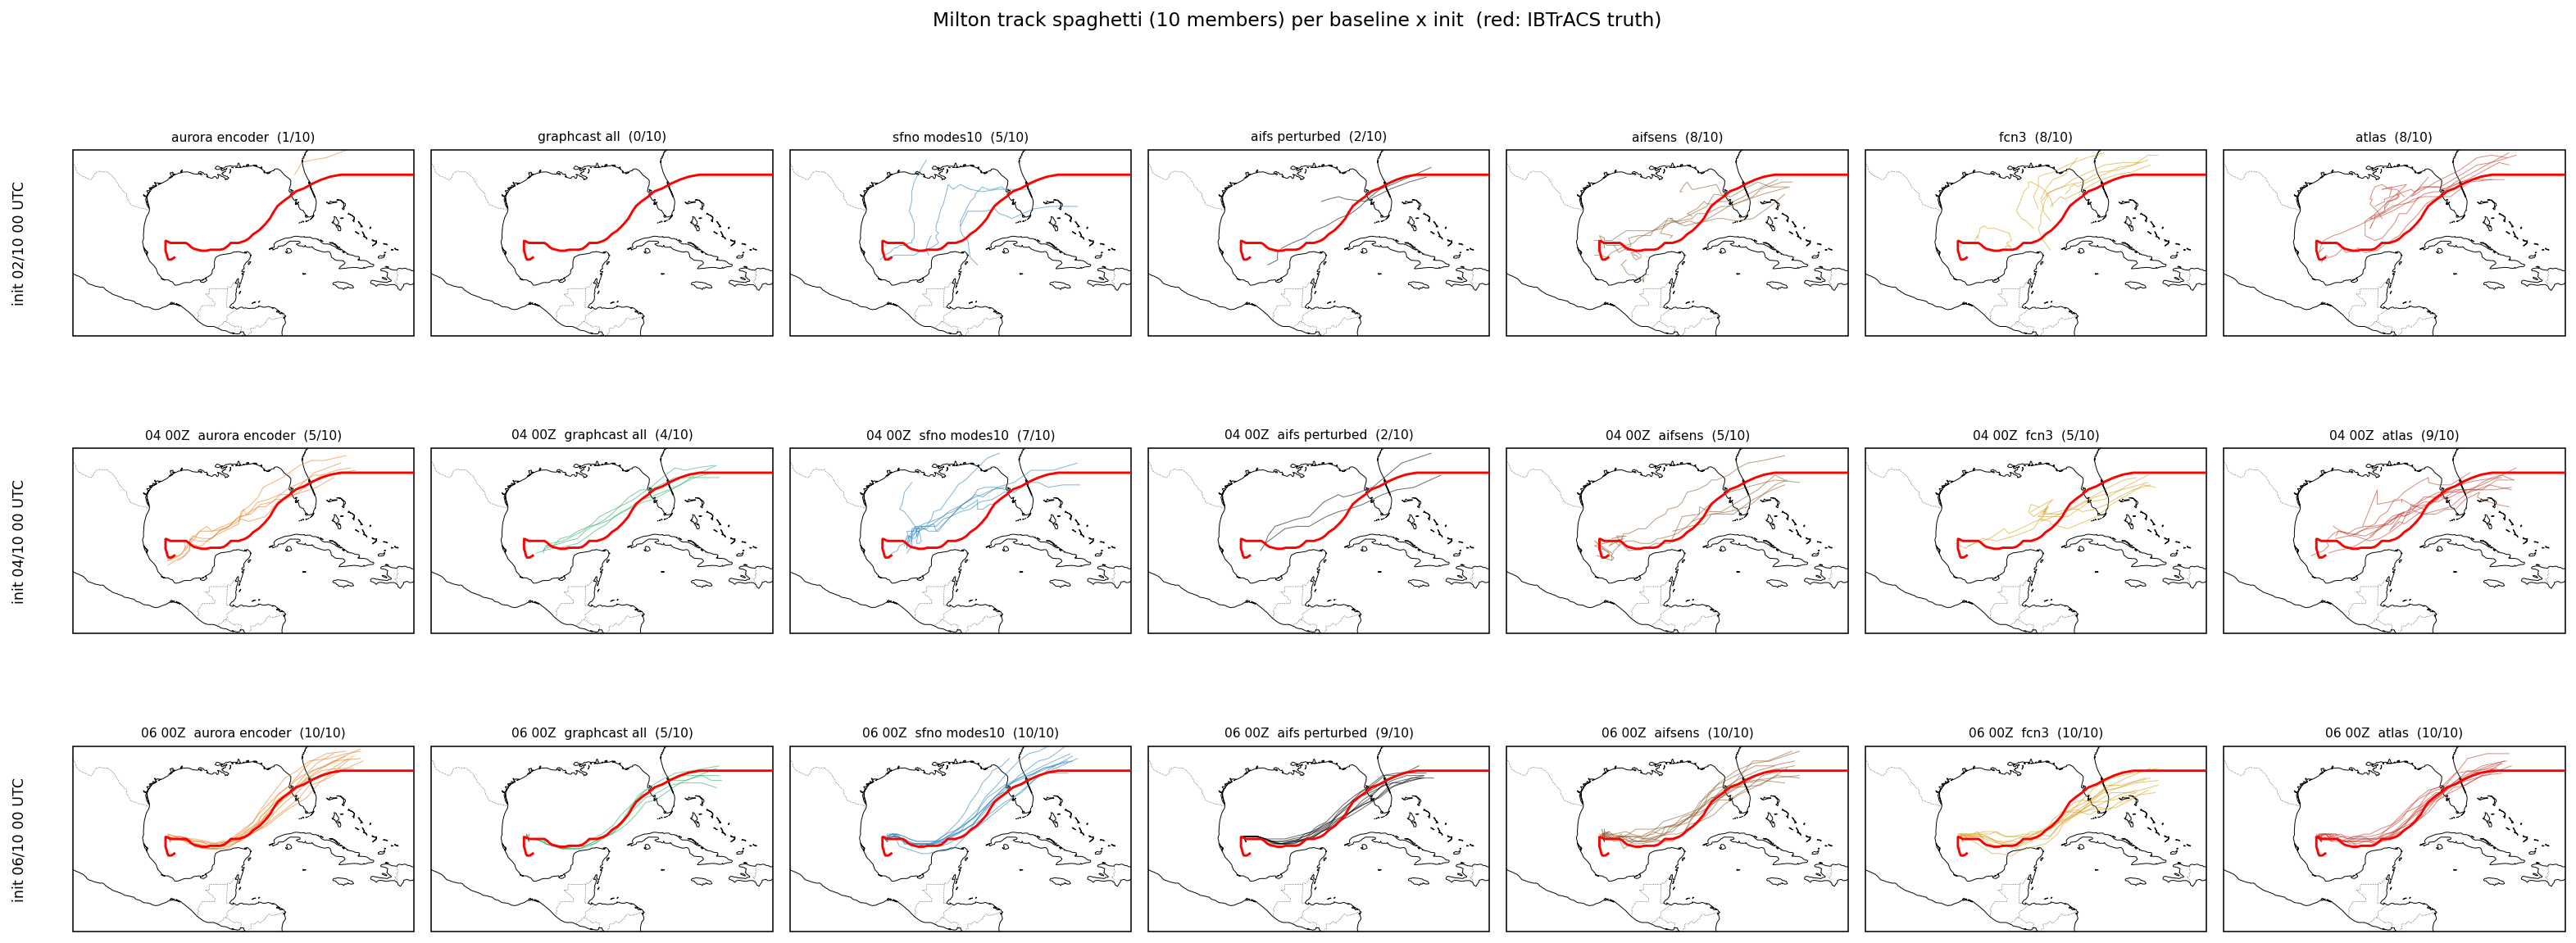
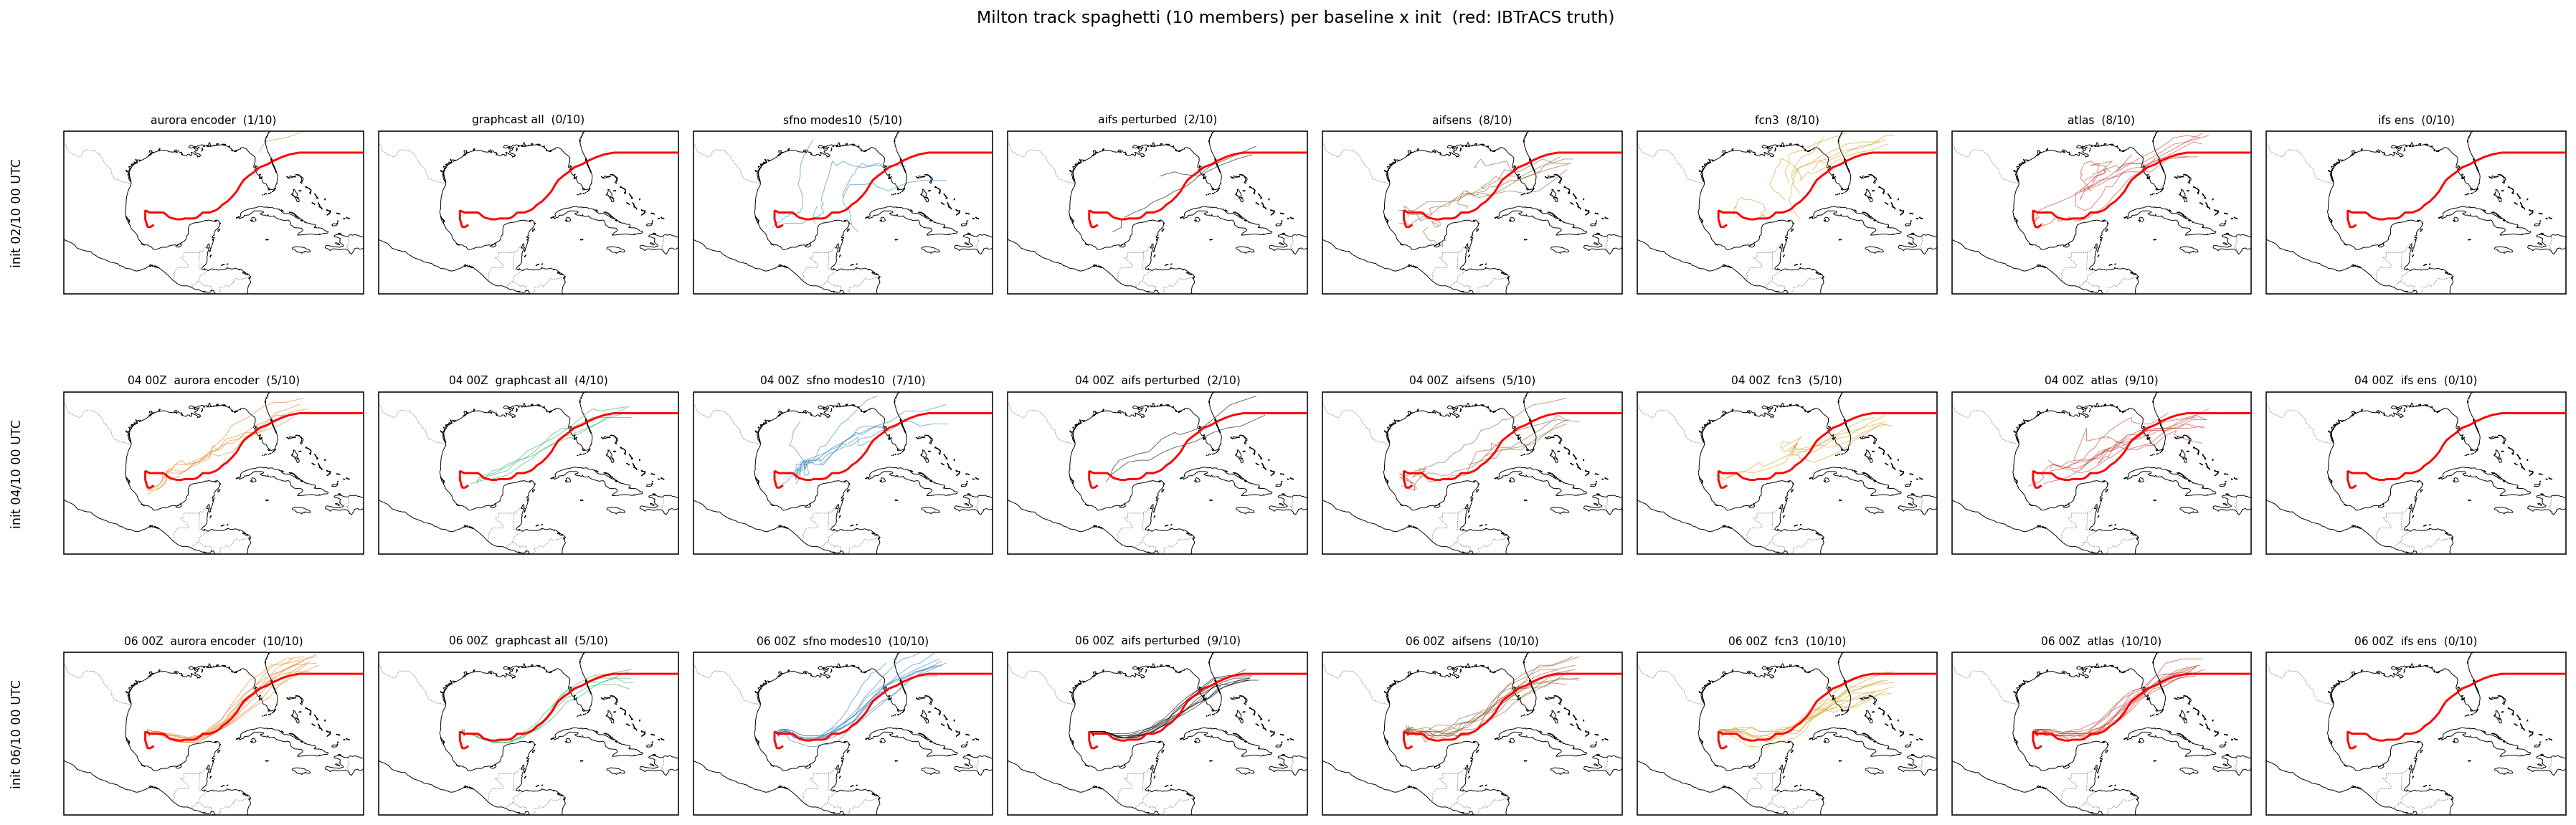
milton 8-way + persistence/clim OOM fixes
Milton case study now 8-way (7 ML baselines + IFS-ENS classical
reference) after the consolidated-zarr tracker handler landed IFS-ENS
in commit a68be10. milton_master_tracks.csv re-aggregated with the new
14 IFS-ENS init dirs, milton_per_baseline_summary.csv now uses
per-baseline ensemble size (10 for ML, 50 for IFS-ENS) instead of the
hardcoded n_total=140. IFS-ENS detection rate is 13 percent
(88 of 700 cells) -- low compared to the ML 52-88 percent range,
mean position error 231 km, MSL bias +24.6 hPa which is roughly half
the ML cluster because IFS-ENS samples Milton at its native TCo1279
~9 km grid rather than through the 0.25 deg ERA5 ceiling. F1, F5, F3
IFS-ENS panel regenerated; summary table grew a "Classical reference"
group with the IFS-ENS row and the caption now explains the 10 vs
50 member ensemble denominators.

compute_persistence_mae.py: chunks=8 for 2 days plus the 4 worker
ProcessPool default after job 2471121 OOM-killed in the
chunks=200 / 8 worker config. New version completed in 41 min as
job 2476373; all 12 keys committed to persistence_mae_112inits.json.
2m_t MAE at 240 h is 2.17 K, MSL 6.23 hPa, both sensible.

compute_climatology_1990_2019.py: chunks=200 plus level=1 to stop the
3D-var chunk reads from materialising the full 37 level slab.
Previous chunks=1460 caused each 3D-var chunk to be
1460 x 37 x 721 x 1440 x 4 = 222 GB and OOM-killed job 2476374 at 2 min
even with parallel 2. New chunk is 200 x 1 x 721 x 1440 x 4 = 830 MB.
[…]

diff --git a/tools/compute_climatology_1990_2019.py b/tools/compute_climatology_1990_2019.py
@@ -81,16 +81,22 @@ CHECKPOINT = OUTDIR / "climatology_1990_2019_checkpoint.jsonl"
 # ---------------------------------------------------------------------------
 # Climatology helpers
 # ---------------------------------------------------------------------------
-def open_wb2(time_chunk: int = 1460) -> xr.Dataset:
+def open_wb2(time_chunk: int = 200) -> xr.Dataset:
     """Open the local WB2-original reanalysis (1959-2021, 0.25 deg, 37 levels).
 
-    `time_chunk=1460` aligns to one calendar year at 6-hourly cadence so the
-    per-year pulls in ``compute_one_field`` each touch a single zarr chunk
-    along the time axis. Earlier runs with ``time_chunk=400`` issued ~3.7
-    chunk reads per year and added 30-40% overhead from chunk-boundary
-    decode work that the year-aligned size eliminates.
+    Chunking strategy: ``chunks={"time": 200, "level": 1}``. Pinning level to
+    one chunk-per-level is essential for 3D variables. The on-disk zarr packs
+    all 37 levels into a single chunk; without an explicit per-level chunk
+    hint, ``.sel(level=lvl).load()`` materialises the FULL 37-level slab
+    before slicing, blowing through memory. A naive ``chunks={"time": 1460}``
+    (one calendar year per chunk) was tried and caused the clim1990 2476374
+    job to OOM at 2 min 16 s because each 3D-var chunk read becomes
+    1460 x 37 x 721 x 1440 x 4 = 222 GB -- two workers alone push 444 GB
+    just for the chunk reads, before the staging cube is even allocated.
+    With ``time=200, level=1`` each 3D-var chunk is
+    200 x 1 x 721 x 1440 x 4 = 830 MB, comfortably safe.
     """
-    return xr.open_zarr(WB2_LOCAL, consolidated=True, chunks={"time": time_chunk})
+    return xr.open_zarr(WB2_LOCAL, consolidated=True, chunks={"time": time_chunk, "level": 1})
 
 
 def select_subset(
@@ -380,9 +386,12 @@ def main():
     ap.add_argument(
         "--parallel",
         type=int,
-        default=4,
+        default=2,
         help="Number of concurrent (var, level) workers via ProcessPoolExecutor. "
-        "Memory-bound: each worker peaks at ~181 GB. Default 4 fits in 800 GB.",
+        "Memory-bound: each worker peaks at ~181 GB. Job 2473062 OOM-killed at "
+        "--parallel 4 because the 4 staging cubes plus xarray/dask/numpy "
+        "overhead pushed past 800 GB. --parallel 2 fits comfortably (~362 GB "
+        "peak) and still halves wall-clock vs serial.",
     )
     args = ap.parse_args()
 

diff --git a/tools/compute_persistence_mae.py b/tools/compute_persistence_mae.py
@@ -86,7 +86,13 @@ INIT_TIMES_NP = np.array([np.datetime64(s) for s in INITS])
 
 
 def _open_wb2() -> xr.Dataset:
-    parts = [xr.open_zarr(z, consolidated=True, chunks={"time": 200}) for z in WB2_ZARRS]
+    # chunks={"time": 8} (= 2 days at 6 h cadence) keeps zarr chunks small
+    # enough that sel(time=<sparse list of 112 timestamps>) does not over-read
+    # whole multi-month chunks per worker. Earlier chunks={"time": 200}
+    # forced each chunk decode at ~830 MB per 3D var, leading to ~120 GB
+    # cumulative reads per worker and a node-level OOM at 8 concurrent
+    # workers (job 2471121 OOM_killed at 1 m 39 s).
+    parts = [xr.open_zarr(z, consolidated=True, chunks={"time": 8}) for z in WB2_ZARRS]
     return xr.concat(parts, dim="time").sortby("time")
 
 
@@ -186,7 +192,10 @@ def main() -> None:
     print(f"Keys remaining: {len(todo)}", flush=True)
 
     results: dict[str, dict[int, float] | None] = dict(done)
-    n_workers = int(os.environ.get("PERS_WORKERS", "8"))
+    # Drop default to 4 workers after job 2471121 OOM_killed at 8. With
+    # chunks={"time": 8} the per-worker peak is ~4 GB, so 4 workers stay
+    # well below the 800 GB node cap. Tune via PERS_WORKERS env if needed.
+    n_workers = int(os.environ.get("PERS_WORKERS", "4"))
     print(f"Launching {n_workers} workers...", flush=True)
 
     with CHECKPOINT.open("a") as ckpt, ProcessPoolExecutor(max_workers=n_workers) as ex:

diff --git a/figures/milton_summary_table.tex b/figures/milton_summary_table.tex
@@ -26,8 +26,12 @@
            intensity ceiling and is therefore not a baseline-quality
            discriminator (see text). Sorted by detection rate descending
            within each role group. ESFM omitted (footnote in
-           Sec.~\ref{sec:results-milton}). IFS-ENS will be added once
-           its consolidated-zarr tracker completes the 8-way set.}
+           Sec.~\ref{sec:results-milton}). IFS-ENS detection rate is over
+           the 50-member native ensemble (700 cells); the ML rows are over
+           the 10-member ensemble (140 cells). IFS-ENS MSL bias of $+24.6$
+           hPa is roughly half the ML cluster, reflecting the much higher
+           native resolution of the IFS analysis (TCo1279, ~9 km) versus
+           the 0.25$^\circ$ ERA5 ceiling.}
   \label{tab:milton-summary}
   \begin{tabular}{@{}l l rrrrr@{}}
     \toprule
@@ -56,6 +60,10 @@
     & aurora\_encoder  & 74 & 196 & 124 & $+39.3$ & 172 \\
     & aifs\_perturbed  & 64 & 203 &  99 & $+42.6$ & 184 \\
     & graphcast\_all   & 52 & 164 &  86 & $+42.5$ & 139 \\
+    \hline
+    \rowcolor{phaseBg}
+    \multicolumn{7}{@{}l}{\textbf{Classical reference}} \\
+    & IFS-ENS          & 13 & 231 & 148 & $+24.6$ & 202 \\
     \bottomrule
   \end{tabular}
 \end{table}